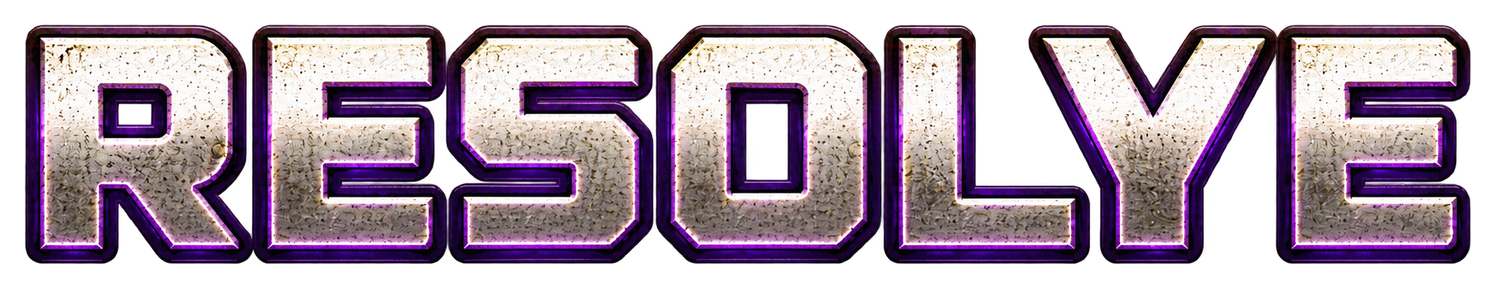
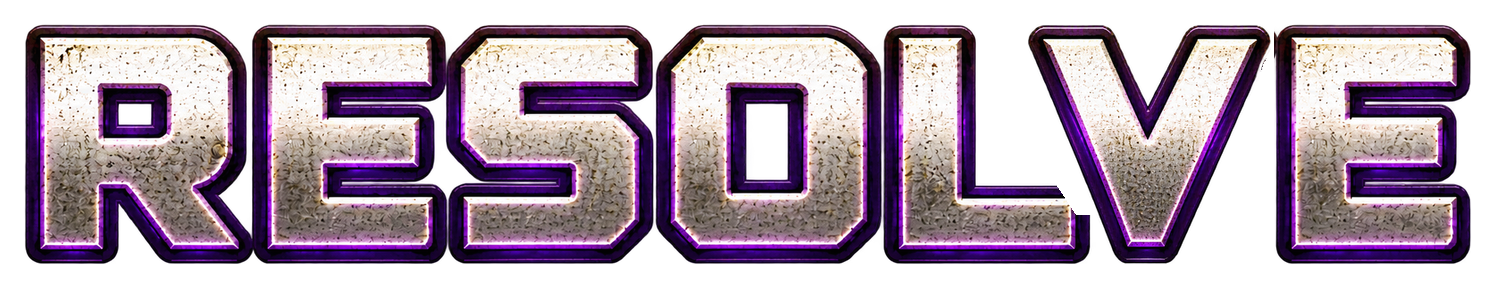
Install corrected RESOLVE artwork from ChatGPT (rev 041)
Claude-Session: https://claude.ai/code/session_016sWeNpuRyjh1SgHfXsP6BV

Changed region(s): [[0.6769, 0.0625, 0.8615, 0.9375]]

diff --git a/docs/MUTAGEN-Visual-Change-Roadmap.md b/docs/MUTAGEN-Visual-Change-Roadmap.md
@@ -1,5 +1,10 @@
 # MUTAGEN V3 — Visual Change Roadmap — Revision 007 (2026-10-12)
 
+## CURRENT REVISION 041 — RESOLVE typo fixed at source, 2026-10-25
+
+ChatGPT delivered corrected RESOLVE artwork (5 files: label, iPad and iPhone assembled and animation-overlay buttons). All five match their SHA-256 and replace the "RESOLYE" files at the same paths. Verified against the previous files: the only changed pixels are inside the stated letter areas, with the same pixel counts and bounds as the delivery's PATCH-VERIFICATION; size, shell, liquid and the other letters are untouched. The word now reads RESOLVE. Records: `handoff/assets-2026-10-25/resolve-fix/`. The RESOLVE hold in revision 040 is lifted; generated lettering stays conditionally approved. Still awaited from ChatGPT: the reworked logo liquid files and the home-screen pipe/frame artwork.
+
+
 ## CURRENT REVISION 040 — MUTAGEN home screen live; logo liquid rework authorised, 2026-10-25
 
 Home screen built to the approved landing layout with supplied artwork only: transparent logo, tagline label, NEW GAME / CONTINUE / DECK MUTATOR stacked, PROFILE / SETTINGS / HELP below, live sight columns at both sides; buttons are the supplied clear-glass versions over the approved liquid (iPad and other large screens use `ui/buttons/`, phones `ui/buttons-iphone/`). All six buttons keep their existing actions; Continue stays disabled without a saved game. Checked at iPhone (844×390) and iPad (1180×820) landscape. Not yet in place because no artwork exists for them: the steel pipes linking the buttons to the columns and the top pipe/frame from the master. They will not be drawn in code.

diff --git a/docs/MUTAGEN-Working-Source.md b/docs/MUTAGEN-Working-Source.md
@@ -1,5 +1,10 @@
 # MUTAGEN — rolling situation report and visual inventory
 
+## CURRENT REVISION 041 — RESOLVE typo fixed at source, 2026-10-25
+
+ChatGPT delivered corrected RESOLVE artwork (5 files: label, iPad and iPhone assembled and animation-overlay buttons). All five match their SHA-256 and replace the "RESOLYE" files at the same paths. Verified against the previous files: the only changed pixels are inside the stated letter areas, with the same pixel counts and bounds as the delivery's PATCH-VERIFICATION; size, shell, liquid and the other letters are untouched. The word now reads RESOLVE. Records: `handoff/assets-2026-10-25/resolve-fix/`. The RESOLVE hold in revision 040 is lifted; generated lettering stays conditionally approved. Still awaited from ChatGPT: the reworked logo liquid files and the home-screen pipe/frame artwork.
+
+
 ## CURRENT REVISION 040 — MUTAGEN home screen live; logo liquid rework authorised, 2026-10-25
 
 Home screen built to the approved landing layout with supplied artwork only: transparent logo, tagline label, NEW GAME / CONTINUE / DECK MUTATOR stacked, PROFILE / SETTINGS / HELP below, live sight columns at both sides; buttons are the supplied clear-glass versions over the approved liquid (iPad and other large screens use `ui/buttons/`, phones `ui/buttons-iphone/`). All six buttons keep their existing actions; Continue stays disabled without a saved game. Checked at iPhone (844×390) and iPad (1180×820) landscape. Not yet in place because no artwork exists for them: the steel pipes linking the buttons to the columns and the top pipe/frame from the master. They will not be drawn in code.

diff --git a/docs/LABEL-ASSET-REQUEST.md b/docs/LABEL-ASSET-REQUEST.md
@@ -1,6 +1,6 @@
 # MUTAGEN label and icon assets — request
 
-**Status 2026-10-25: Sets 1 and 2 and the logo delivered** (ChatGPT asset delivery, 145 files, all checksums verified; stored under `ui/buttons`, `ui/buttons-iphone`, `ui/labels`, `ui/components`, `ui/branding`; records in `handoff/assets-2026-10-25/`). Open defect: RESOLVE reads "RESOLYE" in every variant.
+**Status 2026-10-25: Sets 1 and 2 and the logo delivered** (ChatGPT asset delivery, 145 files, all checksums verified; stored under `ui/buttons`, `ui/buttons-iphone`, `ui/labels`, `ui/components`, `ui/branding`; records in `handoff/assets-2026-10-25/`). RESOLVE typo ("RESOLYE") fixed in every variant (rev 041, `handoff/assets-2026-10-25/resolve-fix/`).
 
 MUTAGEN shows button lettering only from supplied artwork; it never redraws or restyles letters
 (owner, 2026-10-25). The handoff contains no finished label assets: `PLAY_BUTTON_MASTER_HORIZONTAL.jpeg`

diff --git a/docs/STATUS.md b/docs/STATUS.md
@@ -12,7 +12,7 @@ Read this first when picking up the work. Keep it short and current.
 - **Going live:** GitHub Pages from `main` (owner, 2026-10-25), repo made public. The root
   `index.html` forwards to `commander/`; `.nojekyll` serves every file as is.
 - **Phase 2 — visual layer:** live liquid APPROVED (rev 036); button artwork delivered (rev 039); home screen live
-  (rev 040). Waiting on ChatGPT: corrected RESOLVE files, reworked logo liquid, and pipe/frame artwork for the home
+  (rev 040). RESOLVE typo fixed (rev 041). Waiting on ChatGPT: reworked logo liquid, and pipe/frame artwork for the home
   screen. Labels and artwork are never redrawn in code.
 - **Then:** the visual layer, screen by screen as masters are approved. Deck Mutator's
   remaining "upgrade" sentences wait until Deck development settles (owner option b).
